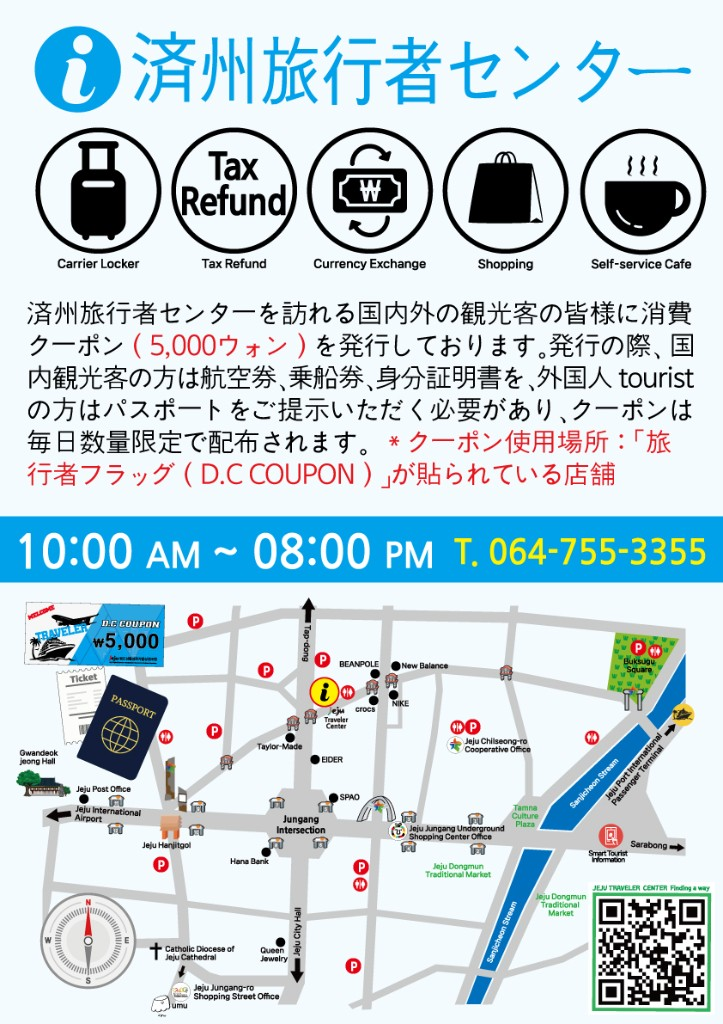
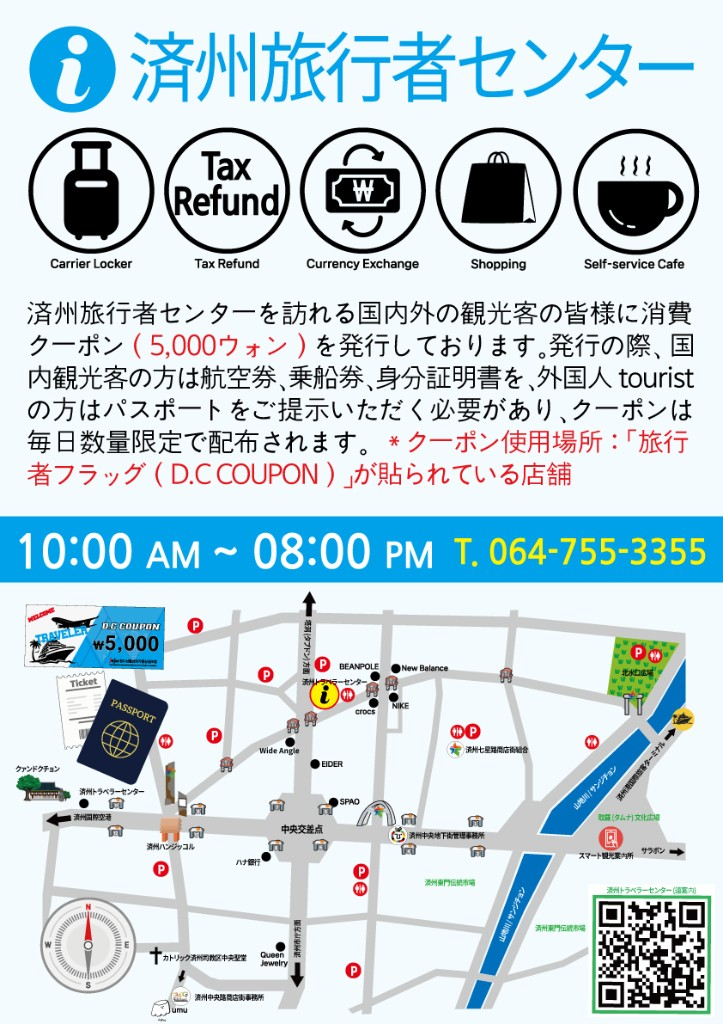
feat: 여행자센터 배너 이미지 포맷 변경 및 불필요한 파일 삭제
배너 이미지를 JPG에서 WebP 포맷으로 변경하여 용량을 최적화하고, 사용되지 않는 영어 및 일본어 배너 파일을 삭제했습니다. MainPromoBanner와 ZoomablePosterImage 컴포넌트의 스타일을 개선하여 사용자 경험을 향상시켰습니다.

Changed region(s): [[0.0, 0.5625, 1.0, 1.0], [0.0304, 0.0312, 0.9737, 0.2812], [0.0304, 0.4062, 0.9433, 0.5]]

diff --git a/src/components/MainPromoBanner.tsx b/src/components/MainPromoBanner.tsx
@@ -276,39 +276,41 @@ export default function MainPromoBanner({
           if (!open) setSelectedBanner(null);
         }}
       >
-        <DialogContent className="w-[calc(100%-2rem)] max-w-md gap-0 overflow-hidden rounded-2xl p-0">
+        <DialogContent className="flex max-h-[min(92dvh,920px)] w-[calc(100%-2rem)] max-w-md flex-col gap-0 overflow-hidden rounded-2xl p-0">
           <DialogTitle className="sr-only">{selectedBannerAlt}</DialogTitle>
           <DialogDescription className="sr-only">
             {selectedBannerAlt}
           </DialogDescription>
-          <div className="flex max-h-[min(92dvh,920px)] flex-col overflow-hidden">
+          <div className="flex min-h-0 flex-1 flex-col overflow-hidden">
             <div className="h-10 shrink-0 bg-background" aria-hidden="true" />
-            <div className="min-h-0 flex-1 overflow-y-auto">
-              <div className="flex flex-col gap-3 px-4 pb-4">
-                {showNaverMapDirections ? (
-                  <button
-                    type="button"
-                    className="block w-full shrink-0 rounded-lg focus-visible:outline-none focus-visible:ring-2 focus-visible:ring-ring focus-visible:ring-offset-2"
-                    aria-label={directionsAlt}
-                    onClick={() =>
-                      openNaverMapDirections({
-                        lat: selectedBanner?.naverMapLat,
-                        lon: selectedBanner?.naverMapLon,
-                        name: getBannerText(selectedBanner?.naverMapName, locale),
-                        placeId: selectedBanner?.naverMapPlaceId,
-                        url:
-                          selectedBanner?.naverMapWebUrl ??
-                          selectedBanner?.naverMapUrl,
-                      })
-                    }
-                  >
-                    <img
-                      src={NAVER_MAP_DIRECTIONS_IMAGE[locale]}
-                      alt={directionsAlt}
-                      className="w-full object-contain"
-                    />
-                  </button>
-                ) : null}
+            {showNaverMapDirections ? (
+              <div className="shrink-0 bg-background px-4">
+                <button
+                  type="button"
+                  className="block w-full rounded-lg focus-visible:outline-none focus-visible:ring-2 focus-visible:ring-ring focus-visible:ring-offset-2"
+                  aria-label={directionsAlt}
+                  onClick={() =>
+                    openNaverMapDirections({
+                      lat: selectedBanner?.naverMapLat,
+                      lon: selectedBanner?.naverMapLon,
+                      name: getBannerText(selectedBanner?.naverMapName, locale),
+                      placeId: selectedBanner?.naverMapPlaceId,
+                      url:
+                        selectedBanner?.naverMapWebUrl ??
+                        selectedBanner?.naverMapUrl,
+                    })
+                  }
+                >
+                  <img
+                    src={NAVER_MAP_DIRECTIONS_IMAGE[locale]}
+                    alt={directionsAlt}
+                    className="w-full object-contain"
+                  />
+                </button>
+              </div>
+            ) : null}
+            <div className="min-h-0 flex-1 overflow-y-auto overscroll-contain">
+              <div className="px-4 pb-4 pt-3">
                 {selectedPopupImageUrl ? (
                   <ZoomablePosterImage
                     src={selectedPopupImageUrl}

diff --git a/src/components/ZoomablePosterImage.tsx b/src/components/ZoomablePosterImage.tsx
@@ -170,9 +170,12 @@ export default function ZoomablePosterImage({
   const contentWidth = baseSize ? baseSize.width * scale : undefined;
   const contentHeight = baseSize ? baseSize.height * scale : undefined;
   const isZoomed = scale > MIN_SCALE;
-  const viewportHeight = baseSize
-    ? `min(${baseSize.height}px, 80dvh)`
-    : undefined;
+  // 확대 전: 높이 고정 없이 전체 포스터를 흘려 보내고 다이얼로그가 스크롤.
+  // 확대 후: 뷰포트를 고정하고 내부에서 팬/스크롤.
+  const viewportHeight =
+    isZoomed && baseSize
+      ? `min(${baseSize.height}px, 80dvh)`
+      : undefined;
 
   return (
     <div
@@ -192,11 +195,13 @@ export default function ZoomablePosterImage({
           ref={scrollRef}
           {...bind()}
           className={cn(
-            "w-full overscroll-contain [-webkit-overflow-scrolling:touch]",
-            isZoomed ? "overflow-auto" : "overflow-hidden",
+            "w-full [-webkit-overflow-scrolling:touch]",
+            isZoomed
+              ? "overflow-auto overscroll-contain"
+              : "overflow-visible",
           )}
           style={{
-            touchAction: isZoomed ? "none" : "pan-x pan-y pinch-zoom",
+            touchAction: isZoomed ? "none" : "pan-y pinch-zoom",
             height: viewportHeight,
           }}
         >

diff --git a/src/lib/mainBanners.ts b/src/lib/mainBanners.ts
@@ -55,12 +55,12 @@ const CHILSEONGRO_FESTA_MAP_NAME: LocalizedText = {
 };
 const CHILSEONGRO_GOOD_DAY_FESTA_MAP_URL = "https://naver.me/xpjja0mM";
 
-/** 팝업용 포스터 — 언어별 원본 JPG */
+/** 팝업용 포스터 — 언어별 WebP */
 const JEJU_TRAVELER_CENTER_COUPON_POSTER: Record<AppLocale, string> = {
-  ko: "/banners/jeju-traveler-center-coupon-poster-ko.jpg",
-  en: "/banners/jeju-traveler-center-coupon-poster-en.jpg",
-  zh: "/banners/jeju-traveler-center-coupon-poster-zh.jpg",
-  ja: "/banners/jeju-traveler-center-coupon-poster-ja.jpg",
+  ko: "/banners/jeju-traveler-center-coupon-poster-ko.webp",
+  en: "/banners/jeju-traveler-center-coupon-poster-en.webp",
+  zh: "/banners/jeju-traveler-center-coupon-poster-zh.webp",
+  ja: "/banners/jeju-traveler-center-coupon-poster-ja.webp",
 };
 const CHILSEONGRO_GOOD_DAY_FESTA_POSTER =
   "/banners/chilseongro-good-day-festa-poster.webp";
